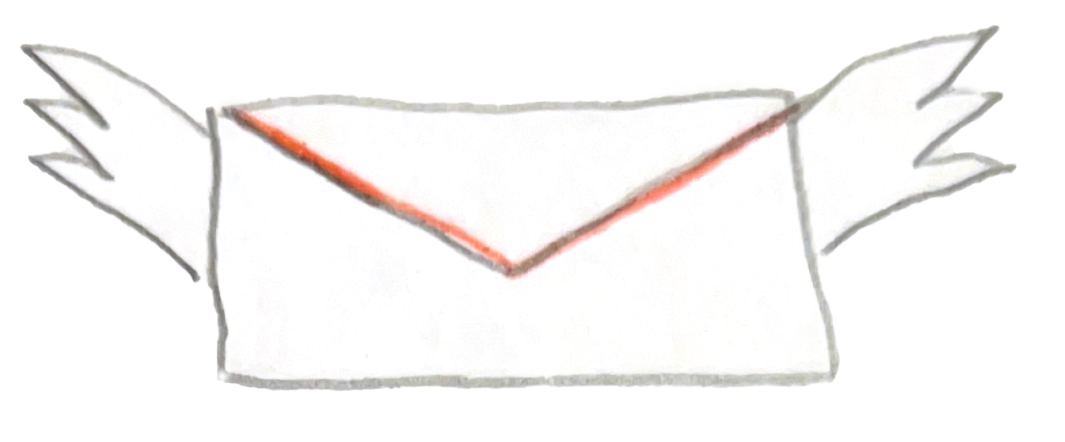
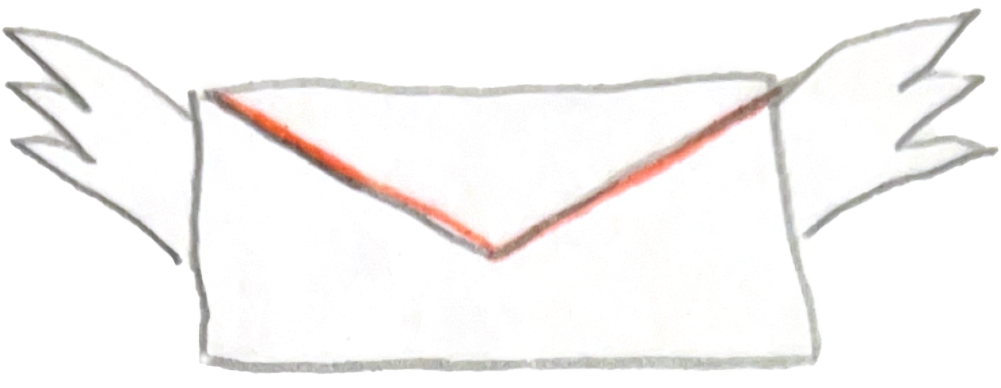
edited assets

Changed region(s): [[0.0, 0.0, 1.0, 0.9897]]

diff --git a/index.html b/index.html
@@ -10,13 +10,20 @@
     
         <div class="text-container">
             <h1>Andrew Pereira</h1>
-        <h2>graphic designer</h2>
+            <h2>graphic designer</h2>
+        </div>
+
+<div class="icon-container"> 
+    <a href="mailto:apereira.12.24@gmail.com">
+        <img src="images/email-icon.png" alt="instagram">
+        </a>
+        <a href="https://www.facebook.com/andrew.pereira.7758">
+
+        <img src="images/facebook-icon.png" alt="twitter">
+            </a>
 </div>
 
-<div class="icon-container">
-
-
-</div>
+<img src="images/andrew-pereira-drawing.png">
 
 
 </body>

diff --git a/main.css b/main.css
@@ -1,4 +1,16 @@
 body{
-    background-image: url("images/Background.png");
+    /* background-image: url("images/Background.png"); */
+    background-color: #FFAA00;
     background-size: cover;
+}
+
+img{
+    width:50%;
+}
+
+.icon-container{
+    display: grid;
+    grid-template-columns: 1fr 1fr;
+    grid-template-rows: auto;
+    margin:auto;
 }
